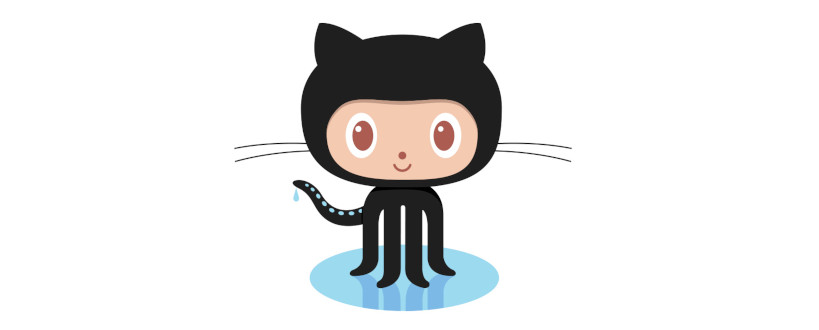
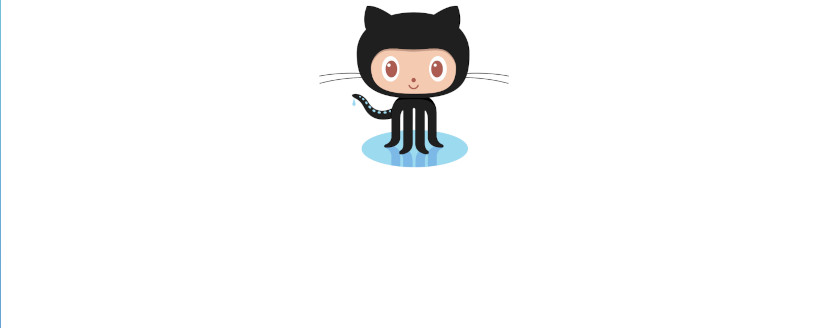
added app bg pictures

Changed region(s): [[0.2747, 0.0, 0.7021, 0.9451]]

diff --git a/style.css b/style.css
@@ -9,9 +9,9 @@
 :root {
     --img: url(./assets/weather-app-reactjs.png);
     --img1: url(./assets/Octocat.jpg);
-    --img2: url(./assets/Octocat.jpg);
-    --img3: url(./assets/Octocat.jpg);
-    --img4: url(./assets/Octocat.jpg);
+    --img2: url(./assets/search-engine-optimization.jpg);
+    --img3: url(./assets/runbuddy.jpg);
+    --img4: url(./assets/rockpaperscissors.jpg);
   }
   
 #bg {
@@ -201,7 +201,7 @@ section p{
     top: 0;
     left:0;
     background-color:cadetblue;
-    opacity: 0.5;
+    opacity: 0.4;
     z-index: 1;
 }
 
@@ -210,14 +210,14 @@ section p{
 }
 
 .flex-item span {  
-    width: 70%;
+    width: 150px;
     background-color:cadetblue;
     color: #393b4f;
     padding: 10px 5px;
     text-align: left;
     display: block;
     margin-bottom:20px;
-    font-size:0.9rem;
+    font-size:0.7rem;
     z-index: 2;
 }
 
@@ -225,7 +225,7 @@ section p{
     display: inline-block;
     padding:0;
     margin: 0;
-    font-size: 0.5rem;
+    font-size: 0.6rem;
     font-weight: lighter;
 }
 
@@ -240,15 +240,20 @@ section p{
 
 .flex-sub-item {
     min-width: 250px;
-    width: 50%;
+    height: 150px;
     font-size: 22px;
     font-weight: bold;
     margin-bottom: 20px;
     background-size: cover;
+    background-repeat: no-repeat;
+    background-position-x: center;
+    background-position-y: top;
+    background-attachment: cover;
     padding: 20px 0;
     display: flex;
     flex-flow: column wrap;
     align-items: flex-start;
+    justify-content: flex-end;
     position: relative;
     border: cadetblue solid 5px;
   }
@@ -269,14 +274,23 @@ section p{
     background-image: var(--img4);
 }
 
-.flex-sub-item span {
-    position: relative;
-    width: 250px;
-    height: 50px;
-    background-color: #fefeff;
-    left: 0;
-    text-align: center;
-    font-size: 60%;
+.flex-sub-item span { 
+    width: 150px; 
+    background-color:cadetblue;
+    color: #393b4f;
+    padding: 10px 5px;
+    text-align: left;
+    display: block;
+    font-size:0.7rem;
+    z-index: 2;
+}
+
+.flex-sub-item span span{
+    display: inline-block;
+    padding:0;
+    margin: 0;
+    font-size: 0.6rem;
+    font-weight: lighter;
 }
 
 
@@ -340,12 +354,12 @@ section p{
     }
 
     .flex-item{
-        max-width:190px;
+        min-width:190px;
         margin-right: 30px;
     }
 
     .flex-sub-item {
+        min-width: 200px;
         margin-right: 30px;
-        min-width:190px;
       }
 }

diff --git a/index.html b/index.html
@@ -70,19 +70,19 @@
                         <a href="https://luluvann.github.io/horiseon-website/" target="_blank">
                             <div class="flex-sub-item bg2">
                                 <div class="opacity-layer"></div>
-                                <span>Marketing Agency Landing Page<span>HTML, CSS</span></span>
+                                <span>Horiseon Landing Page<span>HTML, CSS</span></span>
                             </div>
                         </a>
                         <a href="https://luluvann.github.io/run-buddy/" target="_blank">
                             <div class="flex-sub-item bg3">
                                 <div class="opacity-layer"></div>
-                                <span>Sport Studio Landing Page<span>HTML, CSS</span></span>
+                                <span>Run Buddy Landing Page<span>HTML, CSS</span></span>
                             </div>
                         </a>
-                        <a href="https://luluvann.github.io/run-buddy/" target="_blank">
+                        <a href="https://github.com/luluvann/rock-paper-scissors" target="_blank">
                             <div class="flex-sub-item bg4">
                                 <div class="opacity-layer"></div>
-                                <span>Quote Generator<span>Python</span></span>
+                                <span>Rock Paper Scissors Game<span>Python</span></span>
                             </div>
                         </a>
                     </div>
